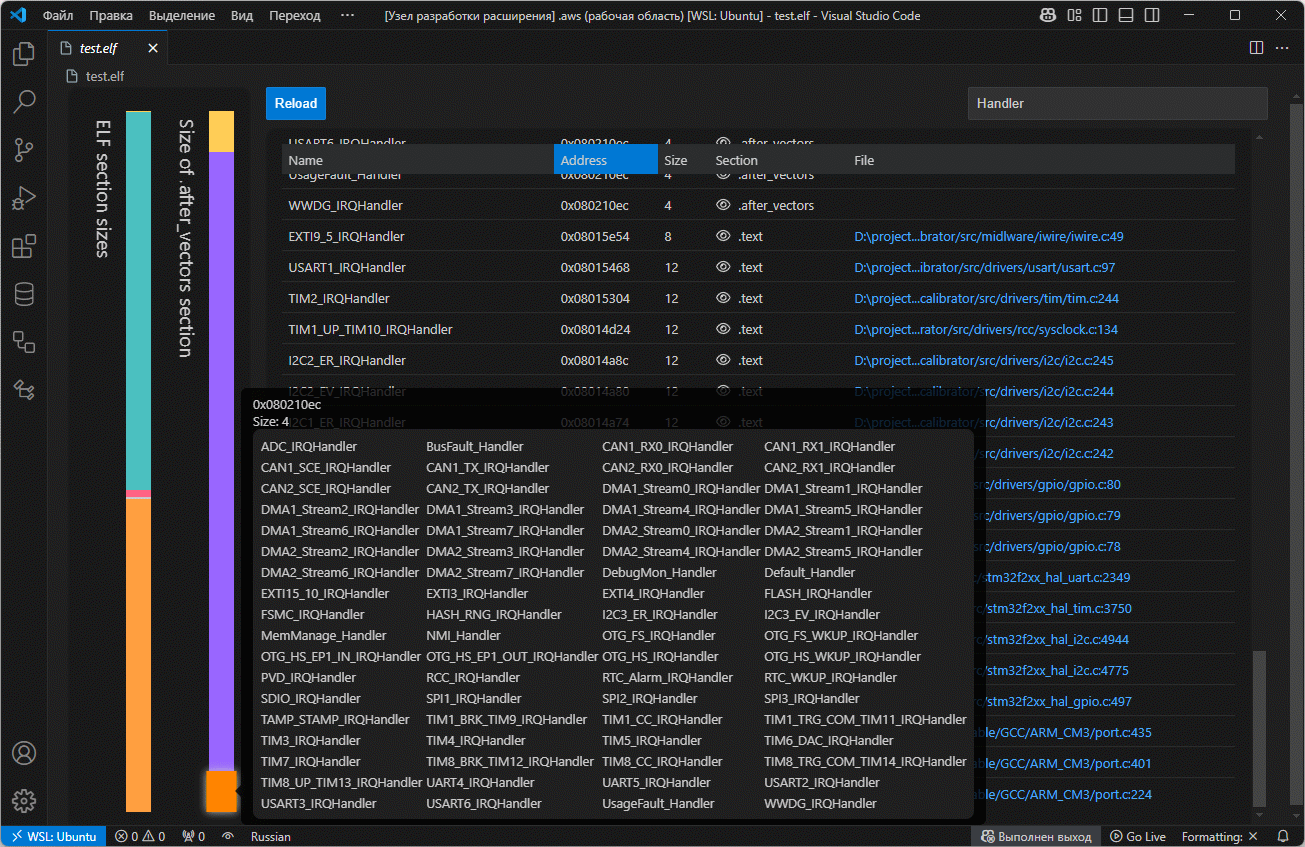
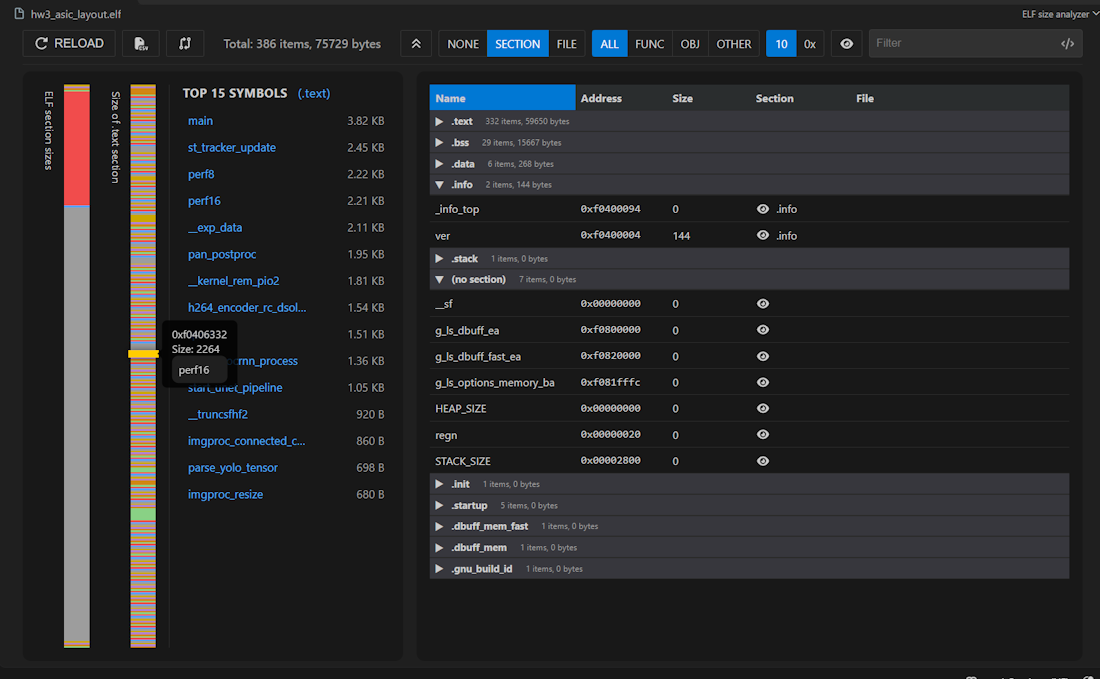
docs: update README, CHANGELOG, and bump version to 0.2.0

diff --git a/README.md b/README.md
@@ -11,12 +11,13 @@ A powerful extension for getting detailed information about ELF files directly i
 * **Symbol Information**: View names, addresses, sizes, and sections of all symbols.
 * **Interactive Charts**: Visualize section sizes and symbol distribution with stack charts.
 * **Grouping**: Group symbols by Section or File to see where the size is coming from.
-* **Top 15 Symbols**: Instantly see the largest symbols in your binary. Click to filter the table.
-* **Diff & Compare**: Compare your current build against a previous file to see exactly what grew or shrank.
+* **Top 15 Symbols**: Instantly see the largest symbols in your binary (globally or filtered by section). Click to filter the table.
+* **Type Filters**: Quickly filter symbols by their type (Func, Obj, Other).
+* **Diff & Compare**: Compare your current build against a previous binary file to see exactly what grew or shrank.
 * **Export to CSV**: Export your filtered data or diff results to a CSV file for reporting.
 * **Advanced Search**: Use case-insensitive search, Regular Expressions, and hide empty symbols.
 * **Hex/Dec Toggle**: Switch between decimal and hexadecimal views for sizes.
-* **State Persistence**: Your filters, sorting, and grouping settings are saved automatically.
+* **State Persistence**: Your filters, sorting, grouping, and collapsed states are saved automatically.
 
 ## Supported Formats
 
@@ -29,6 +30,15 @@ A powerful extension for getting detailed information about ELF files directly i
 This extension contributes the following settings:
 
 * `devprodest-elf-analyzer.toolchain-nm-bin-path`: Path to the `llvm-nm` or `gcc-nm` executable (default is `llvm-nm`).
+
+## 📦 Installation
+
+If you are installing the extension manually from the GitHub Releases page:
+1. Download the `devprodest-elf-analyzer-0.2.0.vsix` file from the assets.
+2. Open VS Code.
+3. Go to the Extensions view (`Ctrl+Shift+X`).
+4. Click the `...` (More Actions) button in the top-right corner and select **Install from VSIX...**.
+5. Select the downloaded `.vsix` file.
 
 ## Usage
 

diff --git a/CHANGELOG.md b/CHANGELOG.md
@@ -1,6 +1,19 @@
-# Change Log
-
 All notable changes to the "devprodest-elf-analyzer" extension will be documented in this file.
+
+
+## 0.2.0
+
+### 🚀 New Features
+- **Top 15 by Section**: The Top-15 panel now dynamically filters to show the largest symbols of the currently selected section.
+- **Type Filters**: Added quick segmented controls to filter symbols by type (All, Func, Obj, Other).
+- **Collapse/Expand All**: Added a toggle button in the toolbar to collapse or expand all table groups at once.
+- **Toolbar Redesign**: Moved the "Hide size=0" toggle out of the search bar into the main toolbar and replaced text buttons with icons for a cleaner look.
+
+### 🛠 UI/UX Improvements
+- Optimized all CSS styles, replacing hardcoded pixels with `rem` units for better scaling.
+- Unified button sizes and icon usage across the toolbar, Diff modal, and error screens.
+- Added state persistence for the type filter.
+- Added active visual states for toggle buttons.
 
 
 ## 0.1.0
